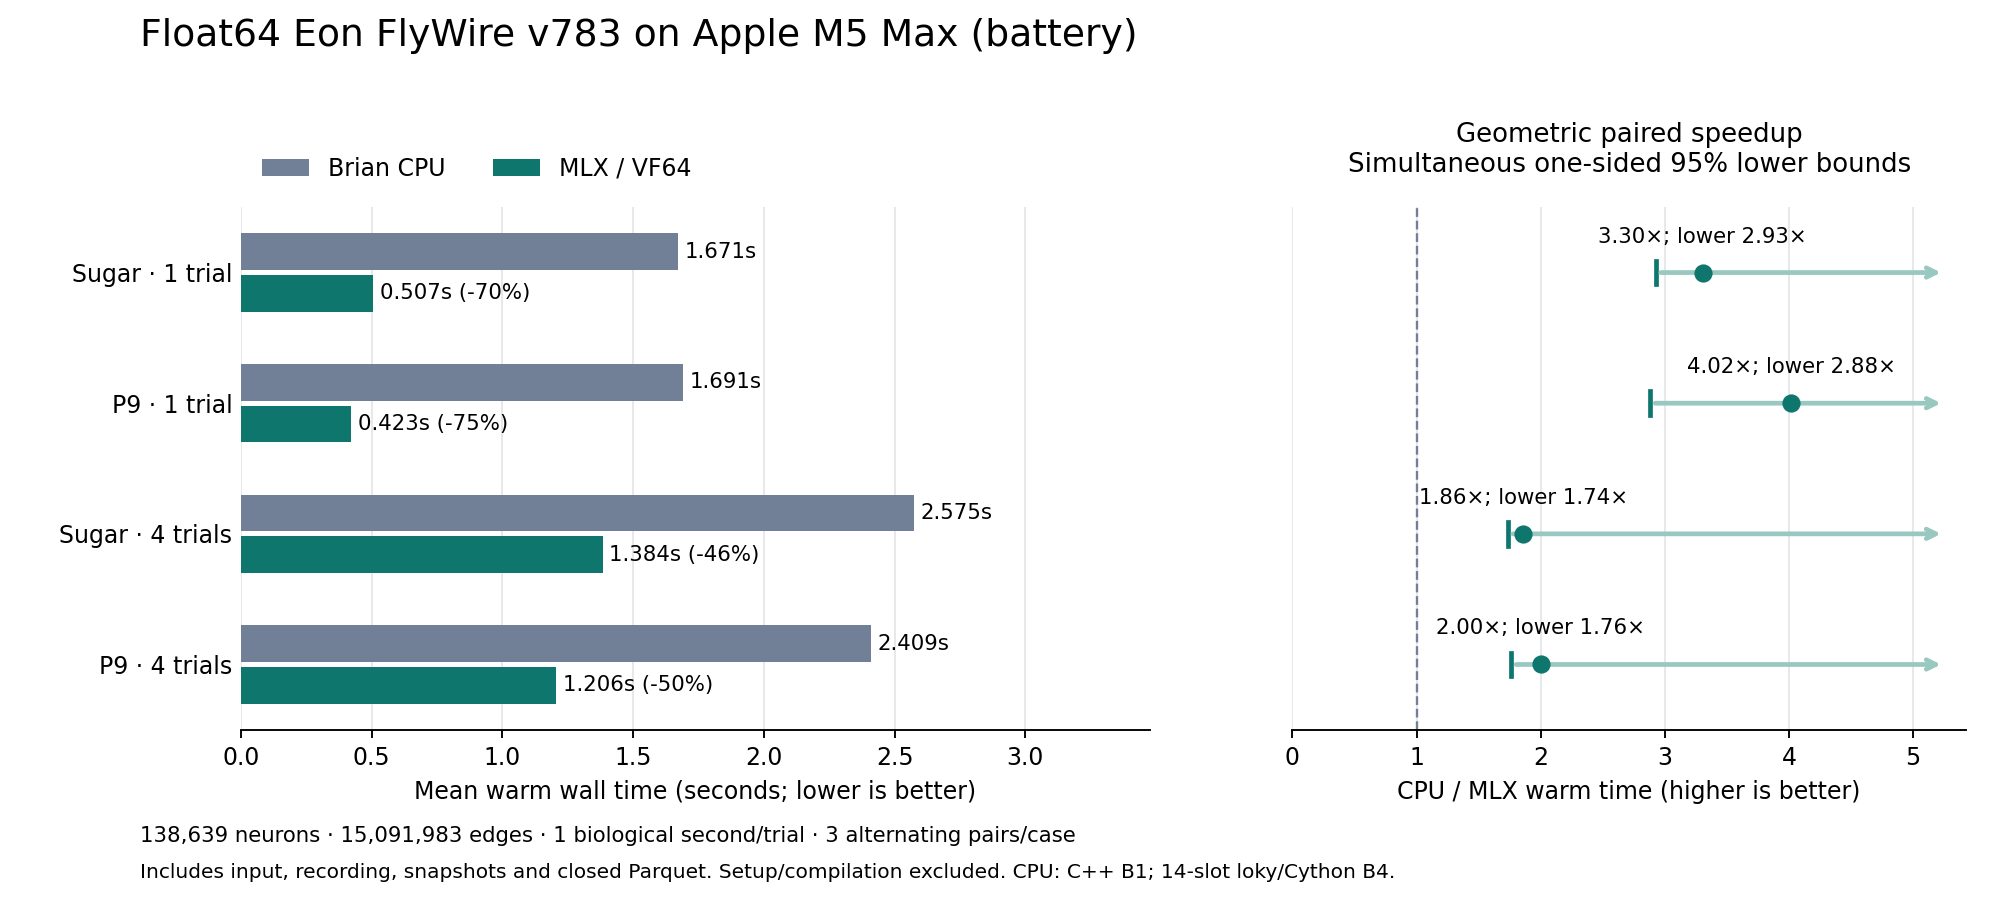
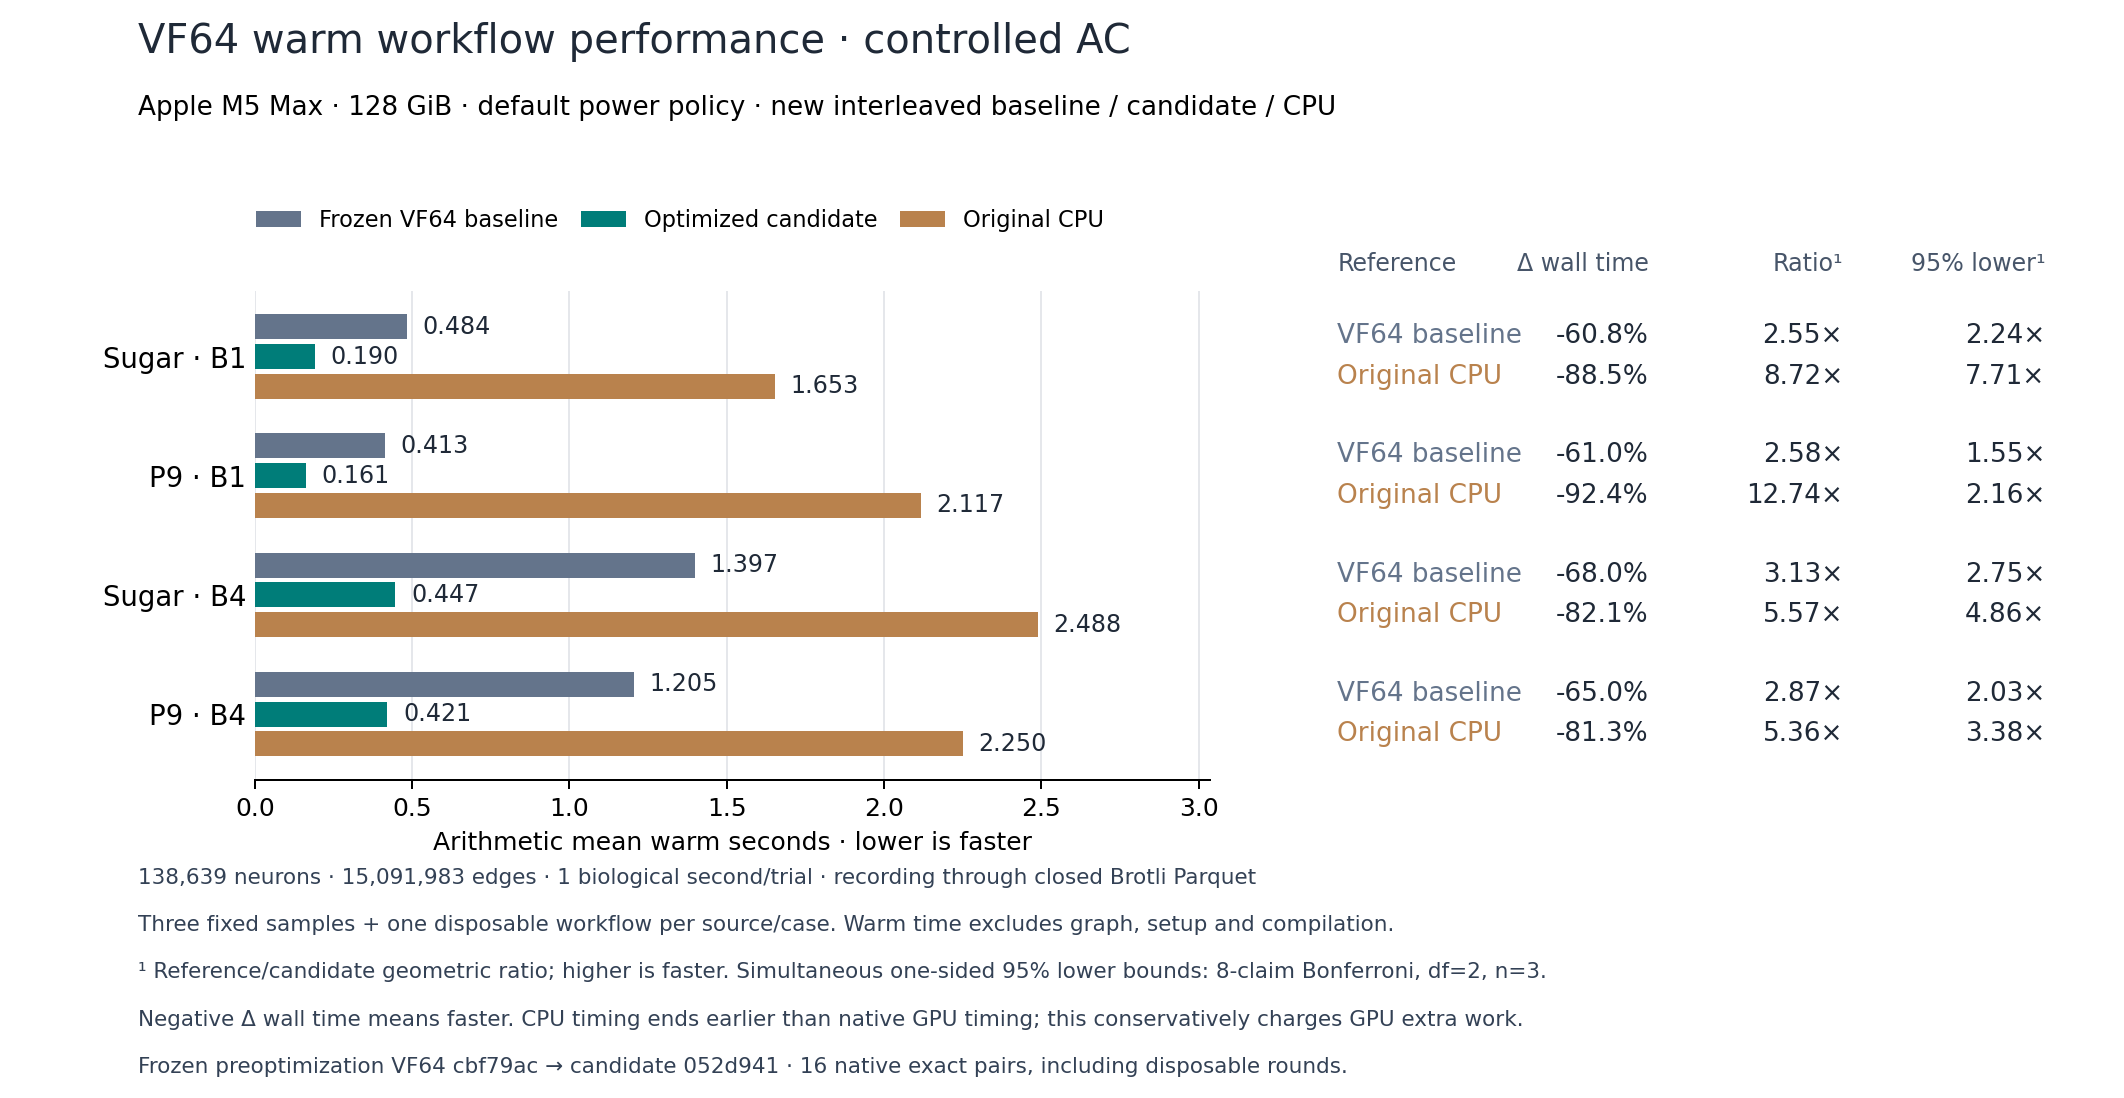
docs: report optimized VF64 throughput

diff --git a/docs/mlx-performance.md b/docs/mlx-performance.md
@@ -1,95 +1,123 @@
 # Float64 MLX performance and verification
 
-Measured October 24, 2026, on an Apple M5 Max with 128 GiB RAM, macOS 26.4,
-battery power and default power mode (`powermode 0`). The tested implementation
-is commit `1225f248299fa40ca1febb1a064163fb52c03588`.
+The controlled AC experiment used an Apple M5 Max with 128 GiB memory,
+macOS 26.4, 18 logical CPU cores, and default power mode (`powermode 0`).
+The optimized code is `052d941cd4a3ab278b0d57bd66c8445888582efc`.
+The pre-optimization code is `cbf79ac10917493aec42942f1d7577eafbbf6592`.
+Each observation staged all six production files from its verified revision.
 
 ## Warm performance
 
-Each trial runs one biological second on the complete FlyWire v783 graph:
-138,639 neurons and 15,091,983 connections. Each case uses three fixed adjacent
-CPU/MLX pairs in CPU-first, MLX-first, CPU-first order, after disposable warm-ups.
-The base seed is `20261030`. All trials record complete six-column Brotli Parquet.
+Every trial simulated one biological second at 0.1 ms on the complete FlyWire
+v783 graph: 138,639 neurons and 15,091,983 connections. All observations recorded
+complete six-column Brotli Parquet. Each case used three fixed measured rounds
+after a separately disposable workflow for each backend.
 
-The CPU uses the original C++ standalone route for one trial. Four trials use
-the original 14-slot loky configuration with four prepared Brian Cython workers.
-MLX uses the production adapter and VF64 Metal engine, with distinct PCG64 inputs.
-Brian and PCG64 streams differ; this performance cohort does not test input parity.
+| Case | CPU s | Previous MLX s | Optimized MLX s | MLX wall change | Optimized aggregate × real time |
+|---|---:|---:|---:|---:|---:|
+| Sugar, B1 | 1.653 | 0.484 | 0.190 | -60.8% | 5.27× |
+| P9, B1 | 2.117 | 0.413 | 0.161 | -61.0% | 6.21× |
+| Sugar, B4 | 2.488 | 1.397 | 0.447 | -68.0% | 8.96× |
+| P9, B4 | 2.250 | 1.205 | 0.421 | -65.0% | 9.50× |
 
-Warm time includes input generation, simulation, recording, result collection,
-complete output and publication. Native time also includes physical-state snapshots
-and engine cleanup. It excludes data/graph setup, compilation and disposable warm-up.
+Means are arithmetic. MLX wall change is `100*(mean_optimized/mean_previous-1)`;
+negative values mean less time. Aggregate real-time throughput is
+`trials/mean_optimized_seconds`, rather than one trial's latency inside a batch.
 
-| Case | Mean CPU s | Mean MLX s | Wall change | Paired speedup | Simultaneous 95% lower | MLX aggregate × real time |
-|---|---:|---:|---:|---:|---:|---:|
-| Sugar, B1 | 1.671 | 0.507 | -69.7% | 3.30× | 2.93× | 1.97× |
-| P9, B1 | 1.691 | 0.423 | -75.0% | 4.02× | 2.88× | 2.37× |
-| Sugar, B4 | 2.575 | 1.384 | -46.3% | 1.86× | 1.74× | 2.89× |
-| P9, B4 | 2.409 | 1.206 | -49.9% | 2.00× | 1.76× | 3.32× |
+| Case | Previous / optimized | 95% lower | CPU / optimized | 95% lower |
+|---|---:|---:|---:|---:|
+| Sugar, B1 | 2.55× | 2.24× | 8.72× | 7.71× |
+| P9, B1 | 2.58× | 1.55× | 12.74× | 2.16× |
+| Sugar, B4 | 3.13× | 2.75× | 5.57× | 4.86× |
+| P9, B4 | 2.87× | 2.03× | 5.36× | 3.38× |
 
-Means are arithmetic. Wall change is `100*(mean_MLX/mean_CPU - 1)`.
-Speedup is the geometric mean of the three paired CPU/MLX wall-time ratios.
-Bounds use log ratios, Student t with two degrees of freedom, and Bonferroni
-adjustment across four one-sided claims (`t=6.205346816570693`). All lower bounds
-exceed 1.0. Aggregate real-time throughput is `trials / mean_MLX_seconds`; it is
-not the latency of one trial within a batch. These are same-Mac CPU comparisons;
-they do not establish an advantage over GeNN/CUDA.
+Ratios are geometric means of the three same-round ratios. Bounds are
+simultaneous one-sided 95% lower bounds for all eight claims. The method uses
+log ratios, Student t with two degrees of freedom, and Bonferroni adjustment
+(`t=8.86020003465431`). Every lower bound exceeds 1.0.
 
-![Warm CPU and MLX comparisons](mlx-performance.png)
+![Controlled AC warm performance](mlx-performance.png)
 
-Fresh-worker MLX preparation plus compilation took 7.20–8.54 seconds across
-the measured runs. C++ compilation took 3.01–7.34 seconds. The Cython comparison
-used a private verified binary cache; its worker preparation occurs before the
-common release barrier. Warm speedups do not describe cold start.
+Each measured round used a different fixed order: previous/optimized/CPU,
+optimized/CPU/previous, then CPU/previous/optimized. Thus, each backend occupied
+each position once. Hardware, OS, compiler, packages, AC source and complete
+power policy matched before and after every observation. Load and process
+snapshots were retained. These are same-Mac results, not GeNN/CUDA comparisons.
 
-## Individual paired observations
+Native warm time includes input generation, synchronized execution, recording,
+physical-state snapshots, cleanup, and the complete adapter output tail.
+CPU timing ends at closed Parquet output, before its remaining summary/logging
+tail. This conservatively charges the GPU extra work. Data/graph preparation,
+compilation, and disposable warm-up are excluded from primary warm time.
 
-| Case | Round | Order | CPU s | MLX s |
-|---|---:|---|---:|---:|
-| Sugar, B1 | 1 | cpu / vf64 | 1.619568 | 0.483788 |
-| Sugar, B1 | 2 | vf64 / cpu | 1.756610 | 0.552522 |
-| Sugar, B1 | 3 | cpu / vf64 | 1.637467 | 0.483634 |
-| P9, B1 | 1 | cpu / vf64 | 1.672505 | 0.396187 |
-| P9, B1 | 2 | vf64 / cpu | 1.725301 | 0.477850 |
-| P9, B1 | 3 | cpu / vf64 | 1.675323 | 0.393735 |
-| Sugar, B4 | 1 | cpu / vf64 | 2.518064 | 1.382154 |
-| Sugar, B4 | 2 | vf64 / cpu | 2.626200 | 1.388987 |
-| Sugar, B4 | 3 | cpu / vf64 | 2.580385 | 1.380725 |
-| P9, B4 | 1 | cpu / vf64 | 2.409504 | 1.226014 |
-| P9, B4 | 2 | vf64 / cpu | 2.392425 | 1.149931 |
-| P9, B4 | 3 | cpu / vf64 | 2.425934 | 1.242246 |
+Across measured native runs, excluded adapter/graph preparation plus compilation
+took 6.37–8.66 seconds for the previous implementation and 6.09–7.82 seconds
+for the optimized implementation. C++ builds took 2.83–6.21 seconds. Cython
+worker preparation occurred before its common release barrier. Warm ratios
+therefore describe repeated execution, rather than cold start.
 
-The initial AC-only preflight stopped before collecting observations. The battery
-cohort then completed both B1 cases but stopped on an administrative process-liveness
-probe after a successful B4 CPU disposable warm-up. A source-bound continuation
-revalidated every completed B1 pair and collected the predeclared B4 cases.
-Only the disposable warm-up repeated. No primary sample was retried, added or
-dropped. Both watchdogs confirmed that all owned process groups were gone.
-The numerical sources, observation code, seeds, pair order and inference stayed
-identical. Raw receipts, failed attempts and cumulative runtime remain in ignored
-`executions/vf64-replacement-20261024/`; no campaign runner is shipped.
+CPU B1 uses the original C++ standalone route. CPU B4 uses the original 14-slot
+loky configuration with four prepared Brian Cython workers and a verified private
+binary cache. Native uses production MLX/VF64 kernels and PCG64 inputs.
+CPU Brian and native PCG64 streams differ. Numerical qualification uses separate
+identical-input controls; these independently generated CPU/native runs do not.
 
-## Correctness and resources
+## Individual observations
 
-Actual Brian2 2.8.0 C++ execution and actual Metal execution agreed on raw binary64
-state, refractory flags, counts, pending delay state and ordered spikes under
-identical supplied inputs. Controls include original, nondefault and zero-rest
-parameters, distinct trials, duplicate channels/edges, cancellation and boundaries.
-The full v783 shared-input check covers 43 ticks and 68 ordered spikes.
+| Case | Round | Order | CPU s | Previous MLX s | Optimized MLX s |
+|---|---:|---|---:|---:|---:|
+| Sugar, B1 | 1 | baseline / candidate / cpu | 1.611579 | 0.484276 | 0.189525 |
+| Sugar, B1 | 2 | candidate / cpu / baseline | 1.673700 | 0.491451 | 0.187645 |
+| Sugar, B1 | 3 | cpu / baseline / candidate | 1.673135 | 0.476531 | 0.191631 |
+| P9, B1 | 1 | baseline / candidate / cpu | 1.515546 | 0.396157 | 0.139303 |
+| P9, B1 | 2 | candidate / cpu / baseline | 1.889518 | 0.439538 | 0.188549 |
+| P9, B1 | 3 | cpu / baseline / candidate | 2.946001 | 0.404386 | 0.155386 |
+| Sugar, B4 | 1 | baseline / candidate / cpu | 2.466647 | 1.445607 | 0.450276 |
+| Sugar, B4 | 2 | candidate / cpu / baseline | 2.444822 | 1.389782 | 0.445000 |
+| Sugar, B4 | 3 | cpu / baseline / candidate | 2.553585 | 1.357060 | 0.444540 |
+| P9, B4 | 1 | baseline / candidate / cpu | 2.228267 | 1.223686 | 0.434145 |
+| P9, B4 | 2 | candidate / cpu / baseline | 2.234797 | 1.162124 | 0.375940 |
+| P9, B4 | 3 | cpu / baseline / candidate | 2.287399 | 1.228213 | 0.453292 |
 
-A 43-tick full graph resource check exercises B1, B4 and B32. B32 peak active Metal
-memory was 873,029,468 bytes; active allocations returned to zero after release.
-The stable allocator cache retained 951,698,272 bytes. Streaming matched native
-counts and event order. Recording-off, repeat runs, and recovery after an injected
-sink failure preserved the same physical state. These are allocation observations,
-not B32 throughput measurements.
+The AC campaign collected all declared observations without retrying or dropping
+a sample. Both watchdogs verified that all owned process groups were gone.
+A preceding candidate-only cohort encountered a battery/AC mismatch. Its results
+remain nonqualifying and separate. Earlier accepted battery results remain
+unchanged. Raw receipts, diagnostic failures, and cumulative runtime remain in
+ignored `executions/`; no campaign runner or execution log is shipped.
 
-The maintained regressions also exercise native adapter output, dependency integrity,
-metadata rollback, bounded dense extraction, and preserved default CLI dispatch.
-Numerical qualification uses NumPy 1.26.4, MLX/Metal 0.32.3, Brian2 2.8.0,
-Python 3.10.14 and Apple Clang 21. The C++ flags are `-O3 -ffast-math
--fno-finite-math-only -march=native -std=c++11`.
+## Correctness, implementation and resources
 
-VF64 source is pinned to `8dae385a16493282e2a3e90e4cd1aa1250b36dc5`.
-CPU numerical source is unchanged: `code/run_brian2_cuda.py` SHA-256
+Actual Brian2 C++ and actual Metal execution agreed on raw binary64 physical
+state, refractory flags, counts, delayed state, and ordered spikes with identical
+supplied inputs. Controls include original, nondefault, and zero-rest parameters,
+duplicate channels/edges, distinct trials, cancellation, and boundaries.
+The full v783 Sugar one-second shared-input check covered 10,000 ticks and
+17019 ordered spikes. Its native state and event hashes also matched the
+corresponding generated-input performance observation.
+Every native previous/optimized pair in the AC campaign also matched all six
+final state arrays, input-seed metadata, and complete ordered spike output.
+
+The implementation queues bounded dependent blocks, packs delayed spike history,
+and groups active neurons before state execution. The exact resting-state shortcut
+does not prune small conductances. Default refractory recovery caches an absolute
+tick while preserving the original physical last-spike time. An independent
+captured Brian clock predicate and native VF64 check covered the int32 horizon.
+Traced and nondefault models preserve their existing arithmetic path.
+
+The 43-tick resource check covered B1, B4, and B32. Peak active Metal memory
+reached 793,194,823 bytes; active allocations returned to zero after release.
+The stable allocator cache retained 926,843,816 bytes. Streaming, recording-off,
+repeated runs, and recovery after an injected sink failure preserved physical
+state. These allocation observations are not B32 throughput measurements.
+
+Backend and adapter code total 1,433 physical Python lines, up 87 lines from the
+pre-optimization implementation. Maintained tests and helpers total 1,399 lines,
+up 26. No alternate engine or numerical dependency was added.
+
+Qualification used Python 3.10.14, NumPy 1.26.4, MLX/Metal 0.32.3, Brian2 2.8.0,
+and Apple Clang 21. The C++ policy is `-O3 -ffast-math -fno-finite-math-only
+-march=native -std=c++11`. VF64 source remains pinned to
+`8dae385a16493282e2a3e90e4cd1aa1250b36dc5`. The unchanged CPU numerical source,
+`code/run_brian2_cuda.py`, has SHA-256
[1 lines of base64/hex data omitted]

diff --git a/README.md b/README.md
@@ -456,8 +456,9 @@ compare raw float64 state and complete ordered spikes with actual Brian C++
 execution. Benchmark setup and compilation are reported separately from warm
 execution, input generation, recording and completed output.
 
-Measured warm CPU speedups range from **1.86× to 4.02×** for full-v783 Sugar/P9
-with one or four trials on an M5 Max running on battery power.
+Measured warm CPU speedups range from **5.36× to 12.74×** for full-v783 Sugar/P9
+with one or four trials on an M5 Max using AC power. The optimized implementation
+is **2.55× to 3.13×** faster than the preceding VF64 implementation.
 See the [measurement and verification report](docs/mlx-performance.md) for timings,
 confidence bounds, setup costs and exactness scope.
 
